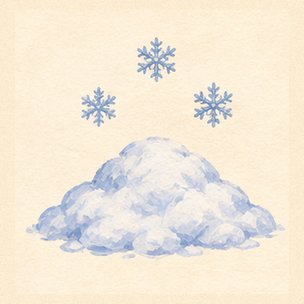
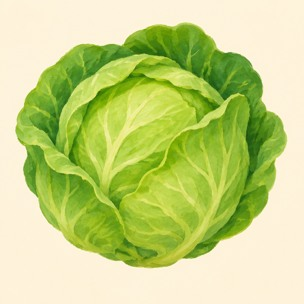
Обновить картинки, перемешивание и анимацию снежка

diff --git a/game.js b/game.js
@@ -1,12 +1,12 @@
 "use strict";
 const el = id => document.getElementById(id);
 const words = {
-  s: ["Сок","Суп","Сыр","Сова","Собака","Санки","Сумка","Самолёт","Самокат","Слон","Снег","Сапоги","Нос","Лес","Усы"],
-  sh: ["Шар","Шапка","Шуба","Шарф","Шкаф","Шишка","Шляпа","Шорты","Мышь","Кошка","Чашка","Машина","Подушка","Груша","Карандаш"]
+  s: ["Сок","Суп","Сыр","Сова","Собака","Санки","Сумка","Самолёт","Самокат","Слон","Капуста","Сапоги","Нос","Лес","Усы"],
+  sh: ["Шар","Шапка","Шуба","Шарф","Шкаф","Шишка","Шляпа","Шорты","Мышь","Кошка","Душ","Машина","Подушка","Груша","Карандаш"]
 };
 const pictures = Object.fromEntries(Object.entries(words).map(([group,names]) =>
   [group,names.map((name,i)=>({name,group,src:'assets/'+group+(i+1)+'.jpg'}))]));
-const state = {group:"s", count:5, lives:5, score:0, deck:[], locked:false};
+const state = {group:"s", count:5, lives:5, score:0,  locked:false};
 const random = (a,b) => a + Math.random()*(b-a);
 function shuffled(items) {
   const out = items.slice();
@@ -40,32 +40,38 @@ function updateHud(){
   Array.from(el("lives").children).forEach((h,i)=>h.classList.toggle("spent",i>=state.lives));
 }
 function start(){
-  Object.assign(state,{deck:shuffled(pictures[state.group]),score:0,lives:state.count,locked:false});
+  Object.assign(state,{score:0,lives:state.count,locked:false});
   el("boy").src="assets/boy.png";
   el("prompt").textContent="Найди звук "+(state.group==="s"?"С":"Ш");
   el("lives").innerHTML=heart().repeat(state.count);
-  setScreen("play");updateHud();round();
+  completed.clear();
+  bags = {s:[], sh:[]}; recent = []; groupPair = [];
+  setScreen("play");updateHud();showNext();
 }
-// Each trio returns until its target is hit. Waiting costs no lives.
-let sequence = [];
-let nextCard = 0;
+const completed = new Set();
+let bags, recent, groupPair;
 let lastSpot = -1;
 let activeBoard = null;
 let cycleTimer = 0;
 const readingTime = 3000;
 
-function round(){
-  const other = state.group === "s" ? "sh" : "s";
-  sequence = shuffled([state.deck[state.score], ...shuffled(pictures[other]).slice(0,2)]);
-  nextCard = 0;
-  showNext();
+function drawCard(){
+  // Each pair contains both sounds; each group runs through its own shuffled bag.
+  if(!groupPair.length)groupPair = shuffled(["s","sh"]);
+  const group = groupPair.pop();
+  if(!bags[group].length){
+    const pool = shuffled(pictures[group].filter(card => !completed.has(card)));
+    bags[group] = [...pool.filter(card => !recent.includes(card)), ...pool.filter(card => recent.includes(card))];
+  }
+  const card = bags[group].shift();
+  recent = [...recent.slice(-5),card];
+  return card;
 }
 
 function showNext(){
   clearTimeout(cycleTimer);
   if(el("field").dataset.screen !== "play")return;
-  const card = sequence[nextCard];
-  nextCard = (nextCard + 1) % sequence.length;
+  const card = drawCard();
   const spots = [0,1,2].filter(spot => spot !== lastSpot);
   lastSpot = shuffled(spots)[0];
   const button = document.createElement("button");
@@ -103,14 +109,52 @@ function point(node,fx=.5,fy=.5){
   const r=node.getBoundingClientRect(),field=el("field").getBoundingClientRect();
   return {x:r.left-field.left+r.width*fx,y:r.top-field.top+r.height*fy};
 }
-async function flight(a,b){
-  const ball=document.createElement("i");ball.className="ball";el("field").append(ball);
-  const arc=Math.min(125,el("field").clientHeight*.16);
-  const frames=Array.from({length:17},(_,i)=>{
-    const t=i/16,x=a.x+(b.x-a.x)*t,y=a.y+(b.y-a.y)*t-4*arc*t*(1-t);
-    return {transform:'translate('+x+'px,'+y+'px) translate(-50%,-50%) scale('+(1-.25*t)+')'};
+async function flight(a,b,returning=false){
+  const ball = document.createElement("i");
+  ball.className = "ball";
+  const distance = Math.hypot(b.x-a.x,b.y-a.y);
+  const height = el("field").clientHeight;
+  const loft = Math.min(height*.23, distance*.31);
+  const startScale = returning ? .38 : 1;
+  const endScale = returning ? .70 : .49;
+  const diameter = el("boy").getBoundingClientRect().width*.155;
+  ball.style.width = diameter+"px";
+  el("field").append(ball);
+  const frames = Array.from({length:33},(_,i)=>{
+    const t=i/32;
+    // A receding throw covers more screen distance just after release.
+    const depth = returning ? t/(1.4-.4*t) : 1.4*t/(1+.4*t);
+    const x=a.x+(b.x-a.x)*depth;
+    const y=a.y+(b.y-a.y)*depth-4*loft*t*(1-t);
+    const scale=startScale+(endScale-startScale)*depth;
+    return {transform:`translate(${x}px,${y}px) translate(-50%,-50%) scale(${scale}) rotate(${t*135}deg)`};
   });
-  ball.style.left="0";ball.style.top="0";await motion(ball,frames,360,"linear");ball.remove();
+  await motion(ball,frames,Math.min(720,430+distance*.30),"linear");
+  ball.remove();
+}
+
+function shatter(at,diameter){
+  const field=el("field");
+  const puff=document.createElement("i");
+  puff.className="snow-puff";
+  puff.style.cssText=`left:${at.x}px;top:${at.y}px;width:${diameter*2.8}px`;
+  field.append(puff);
+  motion(puff,[{transform:"translate(-50%,-50%) scale(.26)",opacity:.85},{transform:"translate(-50%,-57%) scale(1.5)",opacity:0}],320).then(()=>puff.remove());
+  for(let i=0;i<24;i++){
+    const fragment=document.createElement("i");
+    fragment.className="snow-chip";
+    const size=diameter*(i<8?random(.14,.32):random(.045,.13));
+    fragment.style.cssText=`width:${size}px;height:${size*random(.7,1.2)}px;left:${at.x}px;top:${at.y}px`;
+    field.append(fragment);
+    const angle=random(0,Math.PI*2),speed=diameter*random(.75,2.25);
+    const dx=Math.cos(angle)*speed,dy=Math.sin(angle)*speed-diameter*.8;
+    const spin=random(-210,210);
+    const frames=Array.from({length:13},(_,j)=>{
+      const t=j/12;
+      return {transform:`translate(${dx*t}px,${dy*t+diameter*2.1*t*t}px) rotate(${spin*t}deg) scale(${1-.33*t})`,opacity:Math.min(1,(1-t)*2)};
+    });
+    motion(fragment,frames,random(360,620),"linear").then(()=>fragment.remove());
+  }
 }
 function burst(p,flags=false){
   for(let i=0;i<(flags?45:14);i++){
@@ -128,16 +172,26 @@ async function shoot(card,button){
   if(state.locked || button !== activeBoard || el("field").dataset.screen!=="play")return;
   clearTimeout(cycleTimer);
   state.locked=true;
-  const boy=el("boy"),hand=point(boy,.90,.04),target=point(button.querySelector("img"));
+  const boy=el("boy");
+  for(const animation of button.getAnimations()){
+    if(animation.animationName==="surface")animation.finish();
+    else animation.pause();
+  }
+  const target=point(button.querySelector("img"));
   await motion(boy,[{transform:"rotate(0)"},{transform:"rotate(-7deg)",offset:.55},{transform:"rotate(4deg)"}],180);
-  boy.src="assets/throw.png";await flight(hand,target);burst(target);
+  const hand=point(boy,.90,.04);
+  const diameter=boy.getBoundingClientRect().width*.155;
+  boy.src="assets/throw.png";
+  await flight(hand,target);
+  shatter(target,diameter*.6);
   const correct=card.group===state.group;
   if(correct){
-    state.score++;updateHud();el("announce").textContent=card.name+". Верно! "+state.score+" из 15.";
+    completed.add(card);state.score++;updateHud();el("announce").textContent=card.name+". Верно! "+state.score+" из 15.";
     await motion(button.querySelector("img"),[{rotate:"0deg"},{rotate:"-7deg"},{rotate:"4deg"},{rotate:"0deg"}],210);
-    await lowerBoard(button, () => state.score===15 ? finish(true) : round());
+    await lowerBoard(button, () => state.score===15 ? finish(true) : showNext());
   }else{
-    await flight(target,point(boy,.5,.18));burst(point(boy,.5,.18));
+    const hat=point(boy,.46,.16);
+    await flight(target,hat,true);shatter(hat,diameter*.78);
     state.lives--;updateHud();el("announce").textContent=card.name+". Попробуй другую картинку. Жизней — "+state.lives;
     await motion(boy,[{transform:"rotate(0)"},{transform:"rotate(-5deg)"},{transform:"rotate(3deg)"},{transform:"rotate(0)"}],270);
     if(state.lives===0)finish(false);else await lowerBoard(button,showNext);

diff --git a/style.css b/style.css
@@ -25,7 +25,11 @@ fieldset{border:0;padding:0;margin:0 0 15px;min-width:0}legend{padding:0 0 7px;f
 @keyframes surface{from{translate:-50% 2%;rotate:-7deg}to{translate:-50% -100%;rotate:var(--lean)}}
 @keyframes sway{to{rotate:calc(var(--lean) + 2deg)}}
 @keyframes lower{to{translate:-50% 3%;rotate:5deg}}
-#snow{z-index:3;overflow:hidden}.flake{position:absolute;top:-6%;background:white;border-radius:50%;opacity:.75;animation:fall linear infinite}.ball,.dust,.flag{pointer-events:none;position:absolute;z-index:6}.ball{width:clamp(15px,3.4vmin,35px);aspect-ratio:1;border-radius:50%;background:radial-gradient(at 30% 24%,white 20%,#eef7fa 53%,#9bb2c0 94%);box-shadow:0 2px 3px #70899855}.dust{width:9px;height:9px;border-radius:50%;background:#fff}.flag{width:13px;height:18px;clip-path:polygon(0 0,100% 0,50% 100%)}.sr{position:absolute;width:1px;height:1px;overflow:hidden;clip-path:inset(50%)}
+#snow{z-index:3;overflow:hidden}.flake{position:absolute;top:-6%;background:white;border-radius:50%;opacity:.75;animation:fall linear infinite}.ball,.dust,.flag{pointer-events:none;position:absolute;z-index:6}.ball{left:0;top:0;aspect-ratio:1;border-radius:47% 53% 45% 51%;background:radial-gradient(ellipse at 24% 24%,#fff 0 9%,transparent 13%),radial-gradient(at 67% 47%,#d4e0e4 0 4%,transparent 9%),radial-gradient(at 35% 32%,#fffdf4 12%,#ebf0ef 54%,#c1d1d9 79%,#96afbd);box-shadow:inset -1px -2px 3px #9cb0bb55,0 1px 3px #46647845}
+.snow-puff,.snow-chip{position:absolute;pointer-events:none;z-index:6}
+.snow-puff{aspect-ratio:1.4;background:radial-gradient(closest-side,#fffef5 0%,#f1f6f5bb 43%,transparent);border-radius:50%}
+.snow-chip{border-radius:45% 68% 32% 47%;background:linear-gradient(145deg,#fffdf6 27%,#eaf2f3 58%,#a7bfcb);box-shadow:0 1px 1px #849bad55}
+.dust{width:9px;height:9px;border-radius:50%;background:#fff}.flag{width:13px;height:18px;clip-path:polygon(0 0,100% 0,50% 100%)}.sr{position:absolute;width:1px;height:1px;overflow:hidden;clip-path:inset(50%)}
 @keyframes rise{from{transform:translateY(110%) rotate(-4deg)}to{transform:none}}@keyframes fall{to{transform:translate(26px,110cqh)}}@keyframes breathe{50%{transform:rotate(.7deg)}}
 @media(max-aspect-ratio:4/5){.paper{width:calc(100% - 32px);max-width:400px;left:50%;top:53%;transform:translate(-50%,-50%)}#field:not([data-screen=play]) #boy{left:auto;right:1%;height:19%;z-index:5;max-width:22%;bottom:0}#field[data-screen=play] #boy{left:18%;height:31%}}
 @media(max-height:500px){.paper{padding:12px 18px;width:min(440px,72%)}h1{font-size:32px}h1 br{display:none}h1 br:after{content:" "}.intro{margin:6px 0 9px;font-size:14px}.choices button{min-height:34px;padding:4px}fieldset{margin-bottom:7px}legend{padding-bottom:3px}.primary{min-height:36px;padding:5px}}
